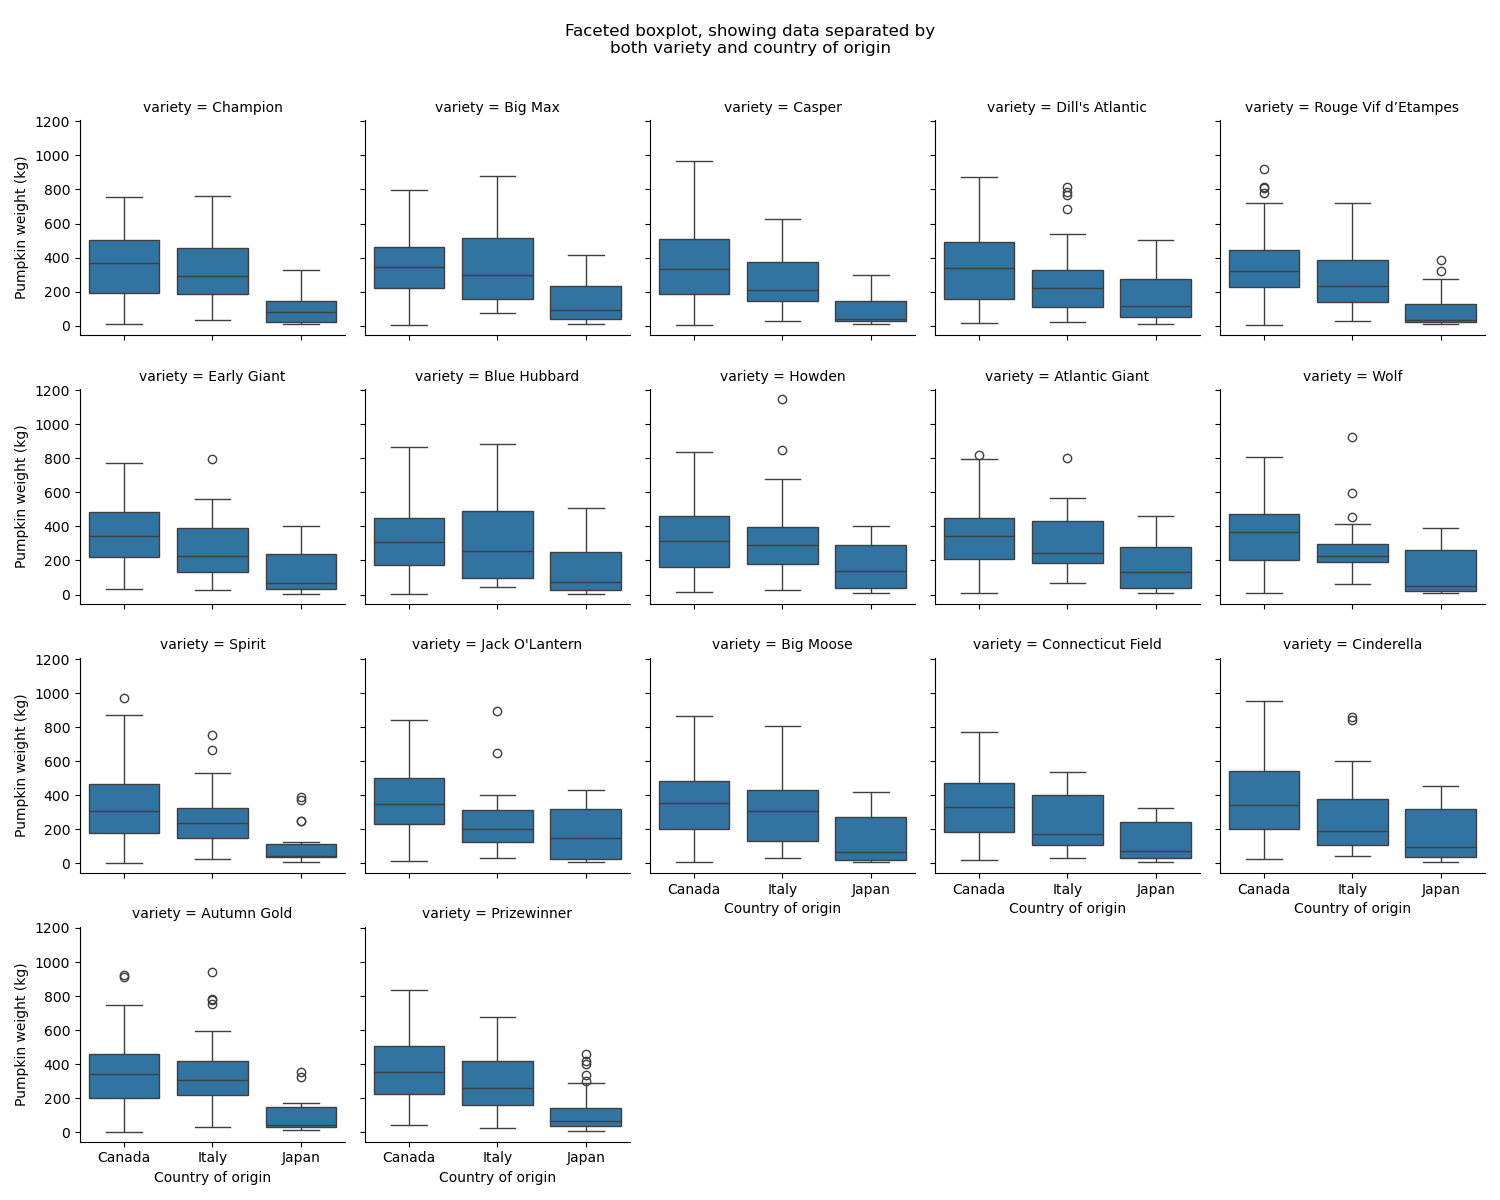
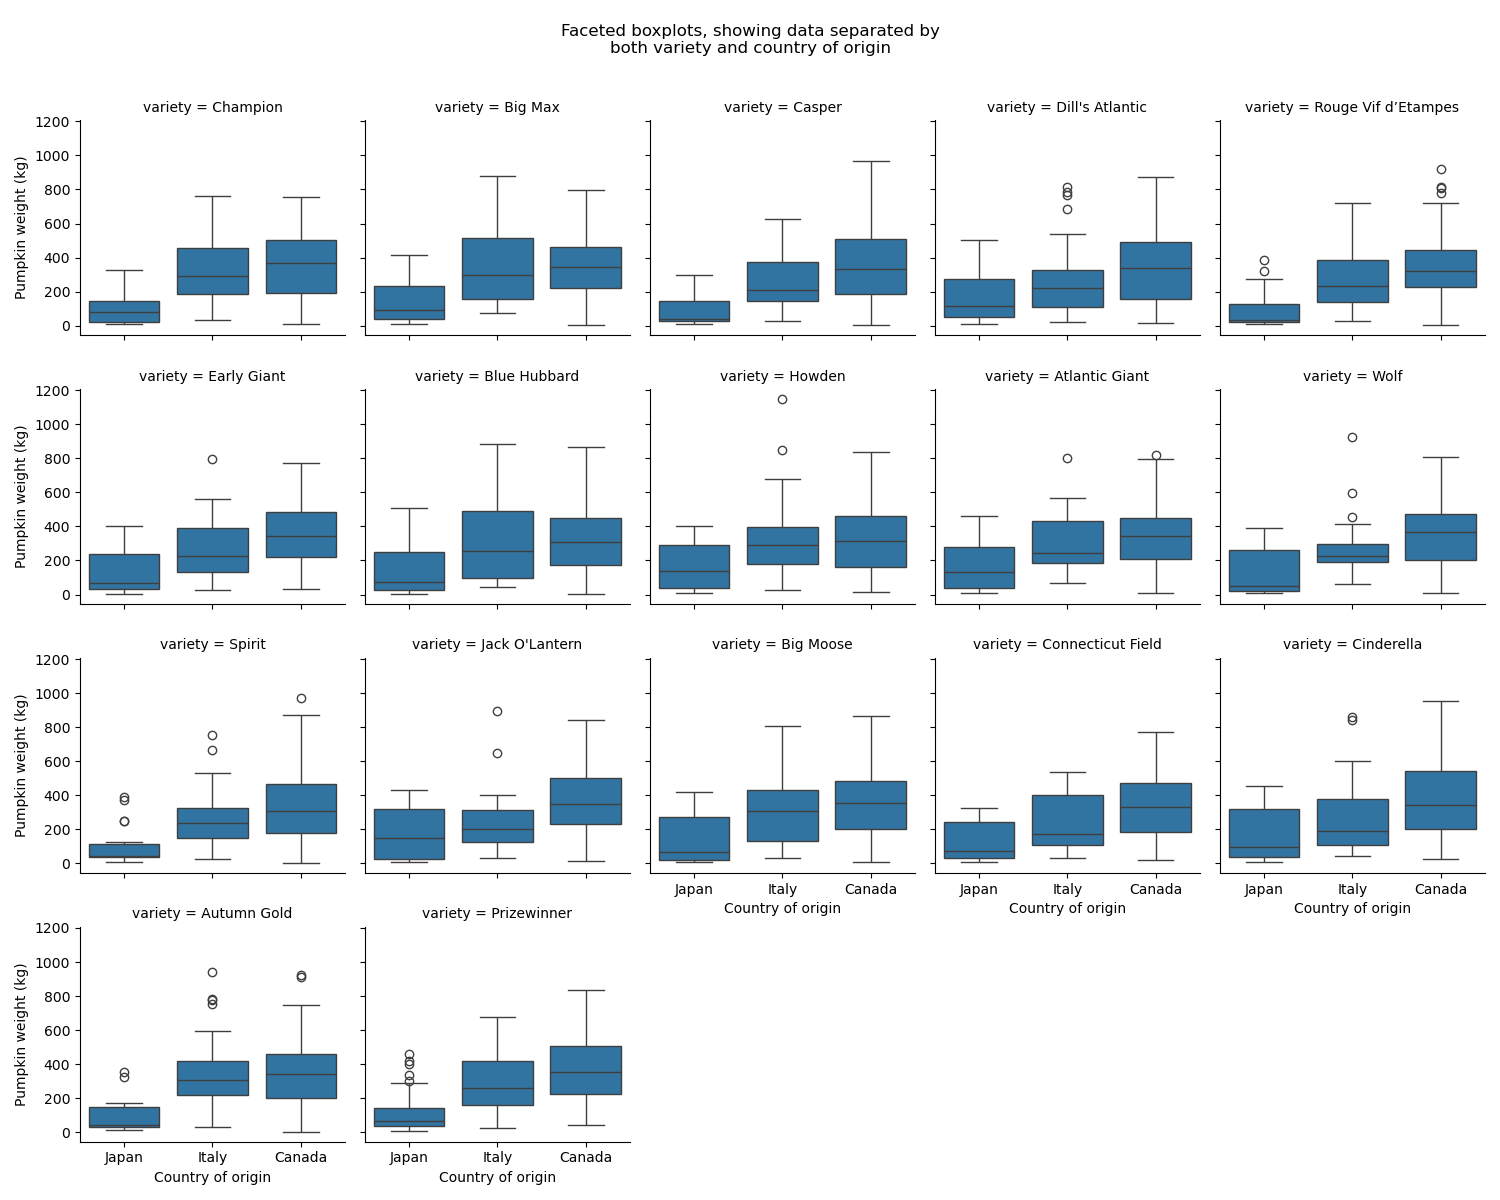
Added order to boxplot to stop seaform complaining

diff --git a/Coursework/Pumpkins_coursework.py b/Coursework/Pumpkins_coursework.py
@@ -76,7 +76,7 @@ plt.savefig(f"{wheretosave}{"/Pumpkin_Boxplot.png"}")
 #Close plots again, set up FacetGrid parameters to define how each box plot should be divided (based on variety), generate faceted boxplot, apply aesthetics.
 plt.close()
 pumpkinsfacetgrid = sns.FacetGrid(filteredpumpkins,col="variety",col_wrap=5)
-pumpkinsfacetboxplot = pumpkinsfacetgrid.map(sns.boxplot,"country","weight_kg")
+pumpkinsfacetboxplot = pumpkinsfacetgrid.map(sns.boxplot,"country","weight_kg",order=["Japan","Italy","Canada"])
 pumpkinsfacetboxplot.set(xlabel="Country of origin",ylabel="Pumpkin weight (kg)")
 plt.subplots_adjust(top=0.9)
 pumpkinsfacetboxplot.figure.suptitle("Faceted boxplots, showing data separated by\nboth variety and country of origin")
